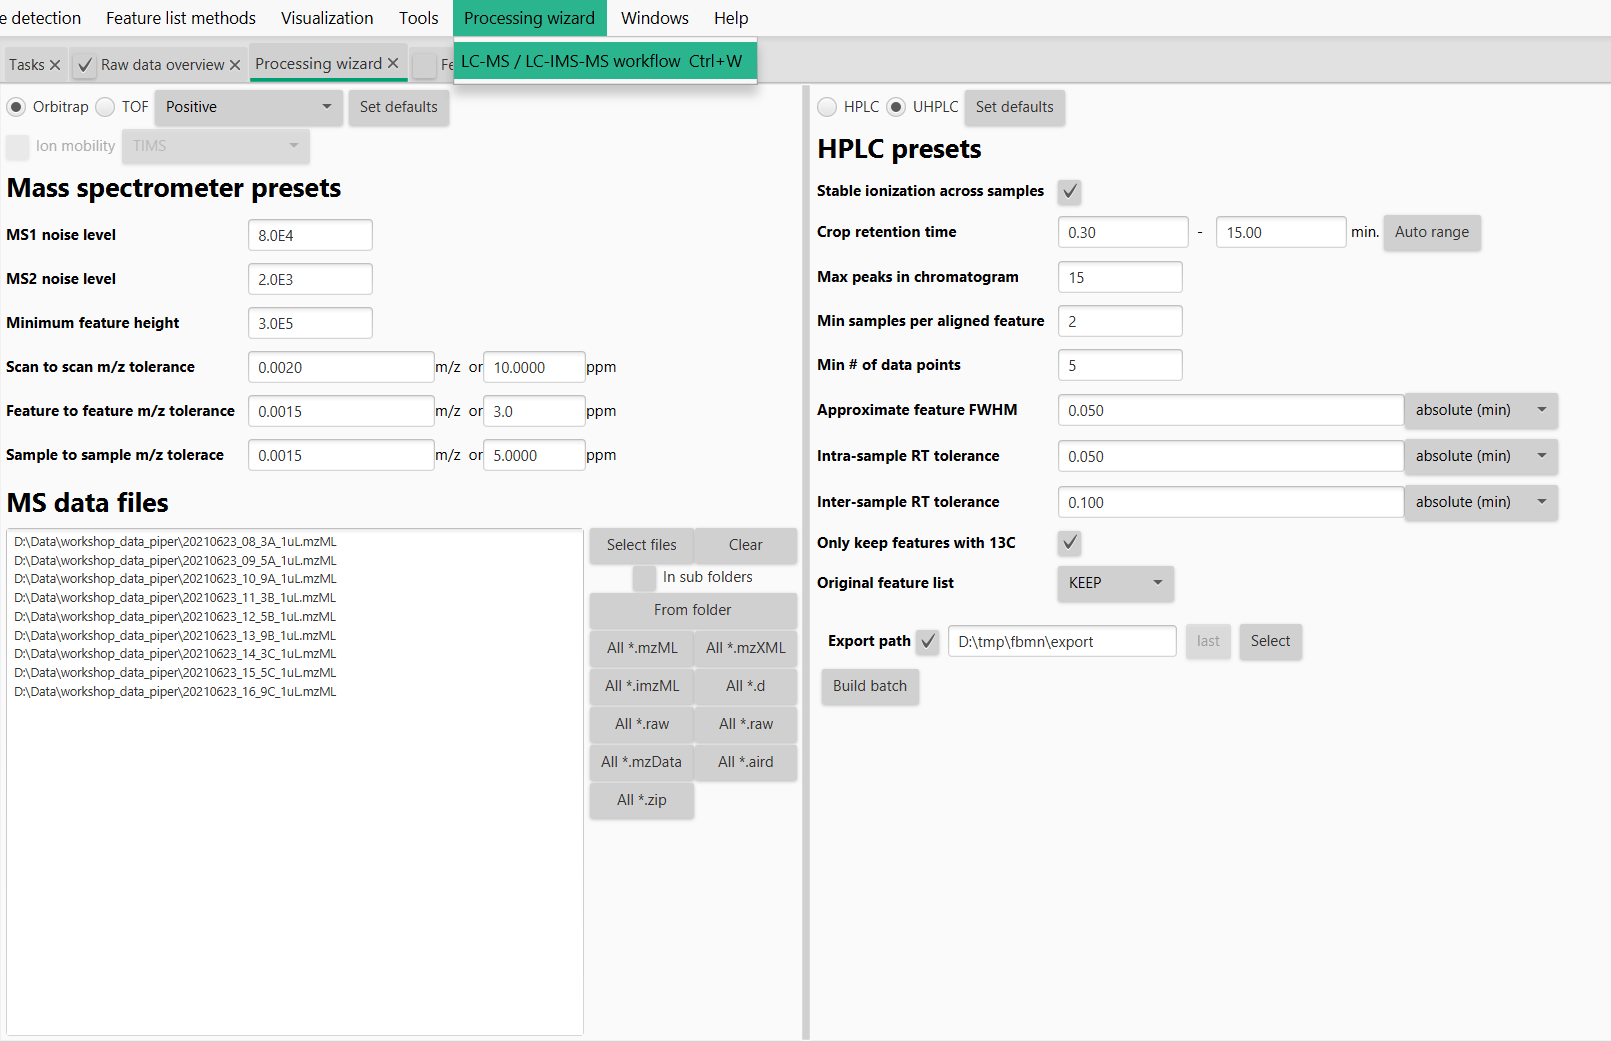
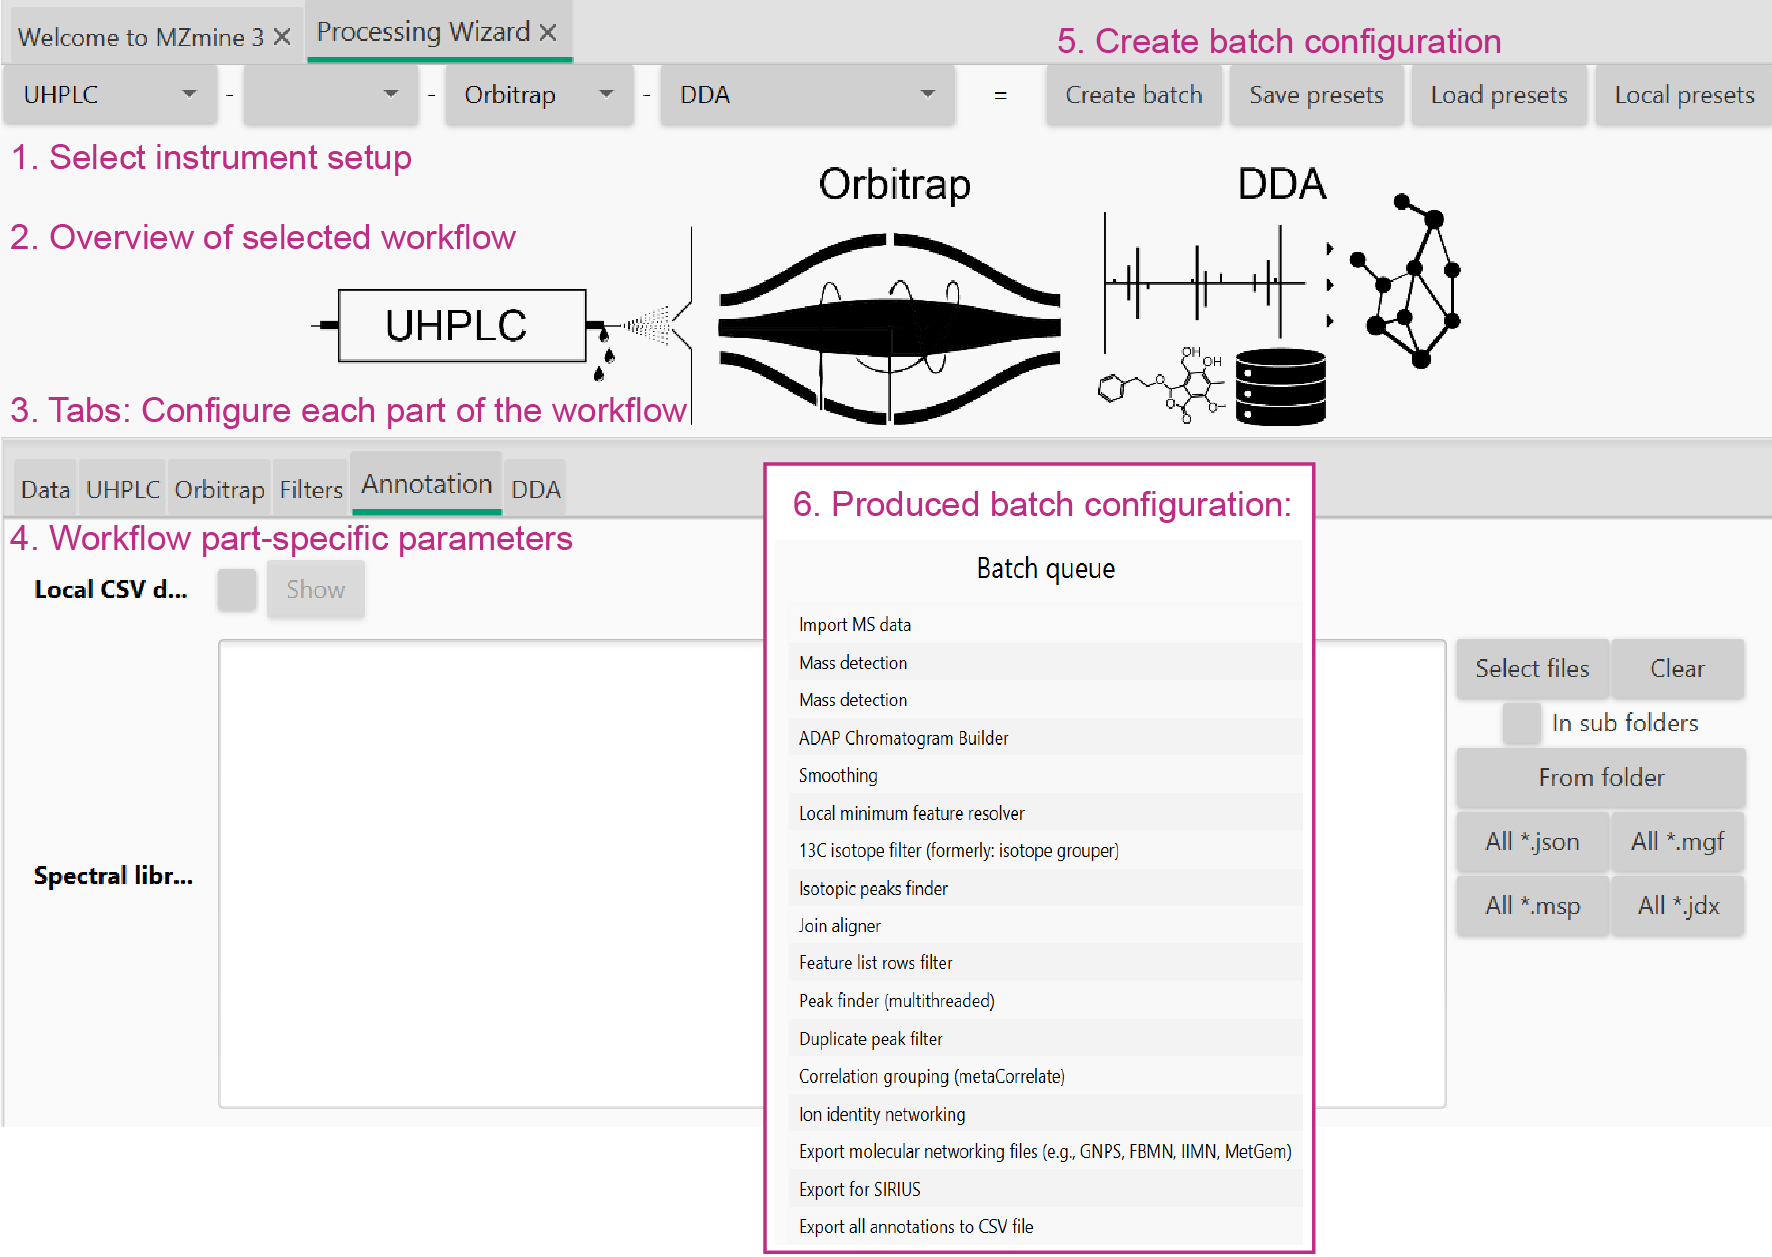
update wizard docs

Changed region(s): [[0.0, 0.0, 1.0, 1.0], [0.0, 0.9827, 0.3724, 1.0]]

diff --git a/docs/wizard.md b/docs/wizard.md
@@ -1,17 +1,17 @@
 # Processing wizard
 
-The processing wizard reduces the configuration of complex standardized workflows into few parameters. Those values are used to estimate or calculate all other parameters from spectral processing over feature detection and alignment to annotation and data export. More wizards are planned for specialized workflows and analytical methods. Feel free to reach out if your workflow might be a candidate for a wizard setup.
+The processing wizard reduces the configuration of complex standardized workflows into few parameters. Those values are used to estimate or calculate all other parameters from spectral processing over feature detection and alignment to annotation and data export. The wizard organizes the different parts of the instrumentatl setup to define a workflow split up into: Sample introduction, IMS, MS instrument, workflow. More specific workflows are planned and we are open for ideas and contributions. Feel free to reach out if your workflow might be a candidate for a wizard setup.
 
 :material-menu-open: **Processing wizard** 
 
 !!! tip
-    The wizard is split into two sections: The MS part and the chromatography part. Parameters here reflect the sensitivity, resolution, and accuracy of these parts of the hyphenation. Selecting one of the default presets and clicking **Set defaults** actually populates the initial values. 
+    The wizard is split into sections, most importantly, the MS part and the chromatography part. Parameters here reflect the sensitivity, resolution, and accuracy of these parts of the hyphenation. Selecting one of the default presets actually populates the initial values. 
 
 !!! danger
-    The defaults are only suggestions and different acquisition methods and instruments produce different noise levels etc. The **raw data overview** and **aligned feature lists** are useful to optimize these results.
+    The defaults are only suggestions and different acquisition methods and instruments produce different noise levels etc. The **raw data overview** and **aligned feature lists** are useful to optimize these parameters.
 
 
-## Parameters section
+## Parameter tabs
 
 ![Processing wizard](img/wizard.png)
 
@@ -19,30 +19,16 @@ Produces this batch:
 
 ![Processing wizard](img/wizard_batch.png)
 
+## Data import
+Specify all data files that need to be processed
 
-#### MS1/MS2 noise levels
-Separate noise levels to threshold spectra of MS level 1 and 2 (or above). So the MS2 noise level is used for MSn data with level > 1. These parameters can be optimized by looking at the spectral raw data in the raw data overview.
+## Sample introduction system
+Depends on the selected sampling system, e.g., MALDI, HPLC, ... 
 
-#### Minimum feature height
-The minimum height of chromatograms and features
+### Chromatography-based
 
-#### Scan to scan m/z tolerance
-Relative and absolute m/z tolerance. Always applies the maximum tolerance based on the m/z this means that smaller and higher values are stronger affected by the absolute and relative tolerance, respectively. 
-Used to find the same signal in different scans when connecting chromatigrams. Reflects on the mass accuracy between scans in the same raw data file.
-
-#### Feature to feature m/z tolerance
-Relative and absolute m/z tolerance. Always applies the maximum tolerance based on the m/z this means that smaller and higher values are stronger affected by the absolute and relative tolerance, respectively. 
-Used to group isotopes and adducts of the same molecule. Those m/z values are already averaged over their features and should have lower m/z differences that the scan to scan tolerance.
-
-#### Sample to sample m/z tolerance
-Relative and absolute m/z tolerance. Always applies the maximum tolerance based on the m/z this means that smaller and higher values are stronger affected by the absolute and relative tolerance, respectively. 
-Used to align features across samples. Those m/z values are already averaged over their features but originate from differnt samples.
-
-#### MS data files
-Select all MS data files to import and process.
-
-#### Spectral libraries
-Select all spectral libraries to import and use during spectral library matching to annotate compounds in the final aligned feature list. 
+#### Smoothing
+Apply smoothing to the chromatograms
 
 #### Stable ionization across samples
 Used during feature grouping of adducts and other ions of the same molecule. Only use if matrix (e.g., salt) contents and ionization efficiencies are comparable across the whole study.
@@ -53,30 +39,97 @@ Crops the chromatograms at these retention time values. Useful to cut off the st
 #### Max peaks in chromatogram
 An estimate of the number of isomers and isobaric ions in the chromatograms. Used to estimate the percentage of data points that hold useful data for the feature resolving step. (Chromatographic threshold in local minimum resolver).
 
-#### Min samples per aligned feature
-Only keep aligned features that were detected in at least n samples. This parameter should usually scale with the sampleset size and if samples are relatively similar from their compounds.
-
-#### Min number of data points
-Only keep chromatograms and features with at least 5 data points in retention time dimension.  
+#### Minimum consecutive scans
+Only keep chromatograms and features with at least X data points in retention time dimension.  
 
 #### Approximate feature FWHM
 The full-width at half maximum of peaks in retention time dimension. Best extracted from the feature tables of already processed test datasets or from the raw data overview.
 
-#### Intra-sample RT tolerance
+#### RT tolerance (intra-sample)
 Retention time tolerance to group adducts and isotopes of the same molecule. The comparison is performed within each individual sample, usaully leading to small variance.
 
-#### Inter-sample RT tolerance
+#### RT tolerance (sample-to-sample)
 Retention time tolerance to align features across all samples. Dependent on retention time shifts.
+
+
+## Ion mobility instrument
+#### Smoothing
+Applies smoothing to the ion mobilograms
+
+#### Minimum consecutive scans
+The number of consecutive scans/datapoints in a valid ion mobilogram and feature
+
+#### Approximate feature FWHM
+The full-width at half maximum for IMS features
+
+
+
+
+## MS instrument, e.g., Orbitrap, qTOF, FTICR
+#### MS1/MS2 noise levels
+Separate noise levels to threshold spectra of MS level 1 and 2 (or above). So the MS2 noise level is used for MSn data with level > 1. These parameters can be optimized by looking at the spectral raw data in the raw data overview.
+
+#### Minimum feature height
+The minimum height of chromatograms and features
+
+#### Scan-to-scan m/z tolerance
+Relative and absolute m/z tolerance. Always applies the maximum tolerance based on the m/z this means that smaller and higher values are stronger affected by the absolute and relative tolerance, respectively. 
+Used to find the same signal in different scans when connecting chromatigrams. Reflects on the mass accuracy between scans in the same raw data file.
+
+#### Feature-to-feature m/z tolerance
+Relative and absolute m/z tolerance. Always applies the maximum tolerance based on the m/z this means that smaller and higher values are stronger affected by the absolute and relative tolerance, respectively. 
+Used to group isotopes and adducts of the same molecule. Those m/z values are already averaged over their features and should have lower m/z differences that the scan to scan tolerance.
+
+#### Sample-to-sample m/z tolerance
+Relative and absolute m/z tolerance. Always applies the maximum tolerance based on the m/z this means that smaller and higher values are stronger affected by the absolute and relative tolerance, respectively. 
+Used to align features across samples. Those m/z values are already averaged over their features but originate from differnt samples.
+
+
+
+
+## Filters
+#### Original feature list
+Options to either _keep_ or _remove_ the original feature lists. _Keep_ is valuable during workflow optimization whereas _remove_ saves resources and allows for more performant processing or large datasets. (See section on performance).
+
+
+#### Min samples per aligned feature
+Only keep aligned features that were detected in at least n samples. This parameter should usually scale with the sampleset size and if samples are relatively similar from their compounds.
 
 #### Only keep features with 13C 
 Detect isotope pattern and only keep feature with valid 13C isotope pattern. 
 
-#### Original feature list
-Options to either _keep_ or _remove_ the original feature lists. _Keep_ is valuable during workflow optimization whereas _remove_ saves resources and allows for more performant processing or large datasets. (See section on performance).
 
-#### Export path
-The export path configures multiple export modules for GNPS and SIRIUS for data exchange. 
 
+## Annotation 
+#### Spectral library files
+Select all spectral libraries to import and use during spectral library matching to annotate compounds in the final aligned feature list. 
+
+#### Local CSV database
+- Specify the database file (csv or tsv format). 
+- Select m/z option to either 
+    - calculate from given neutral mass (or formula/structure)
+    - use provided precursor m/z in column
+- Filename column is only used for the library generation workflow
+- Columns map the table column headers to the internal names in MZmine
+
+
+
+## Workflows
+Most of the parameters in the workflow section define data output and some workflow specific parameters.
+
+### General parameters
+- Define an export path and base file name, e.g., *"D:\analysis\date_project"*  this will create a new folder and save all files from export modules there. Each module will add a specific suffix to the file name.
+- Export for molecular networking (e.g., GNPS, FBMN, IIMN, MetGem): Will export all files for molecular networking
+- Export for SIRIUS: Will export all files needed for SIRIUS
+
+
+### Workflow parameters and descriptions
+#### DDA
+The data-dependent acquisition workflow is the default non target workflow. We recommend to also use this workflow for targeted analysis and combine it with the local CSV database search and spectral library search (*Annotation*). 
+
+
+#### Library generation
+More method and contributor **metadata** is required to build spectral libraries. This workflow produces reference libraries with options to filter and merge spectra.
 
 
 {{ git_page_authors }}
